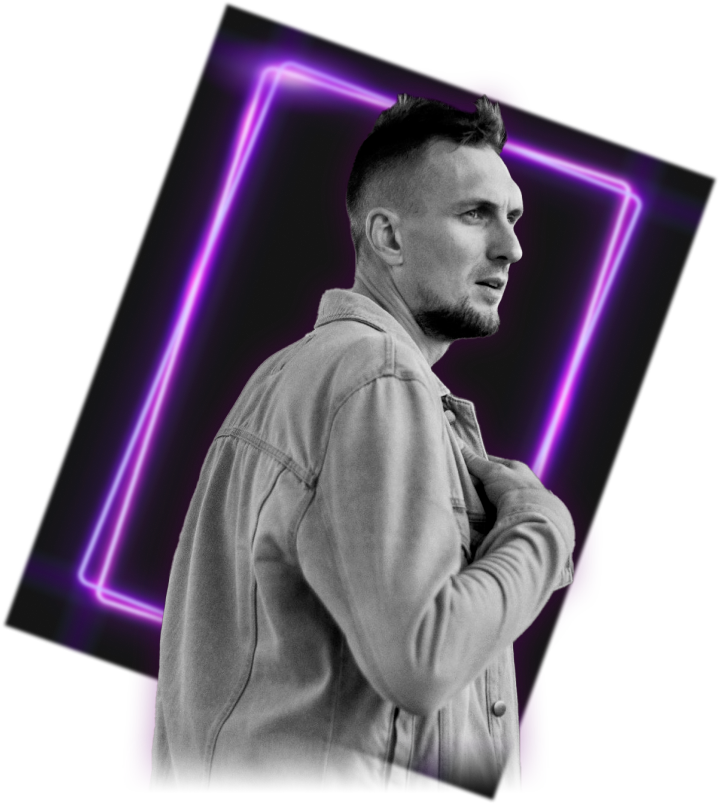
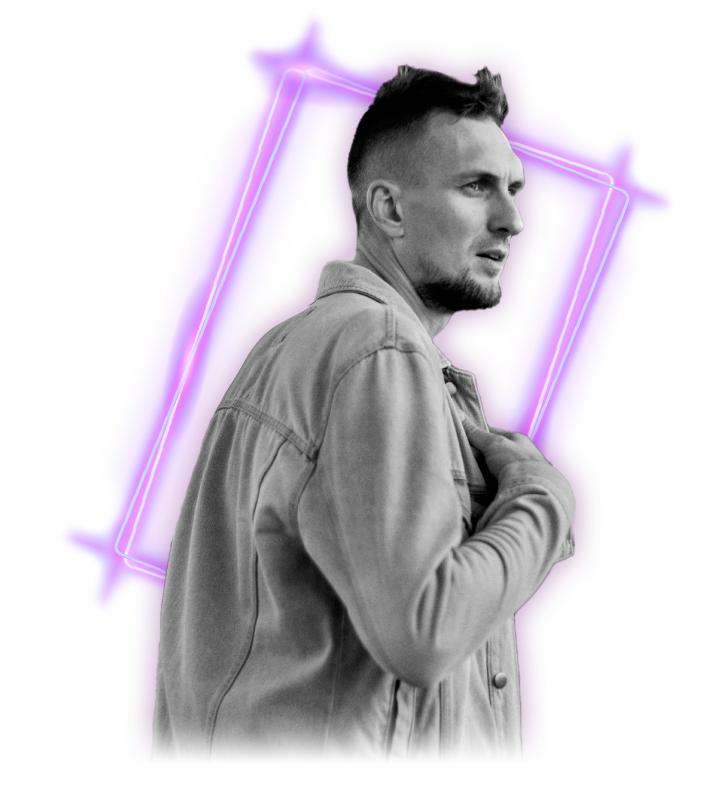
fix main photo

diff --git a/style.css b/style.css
@@ -30,7 +30,8 @@
 
 body {
     font-family: "rfTone";
-    background-color: #262637;
+    /* background-color: #262637; */
+    background: radial-gradient(#262637, #171725);
 }
 
 h1, h2 {
@@ -99,7 +100,7 @@ button {
 
 .banner__wrapper {
     
-    background: url(./image/stas.png) no-repeat right ;
+    background: url(./image/stas_m.png) no-repeat right ;
     background-size: contain;
     position: relative;
     box-sizing: border-box;
